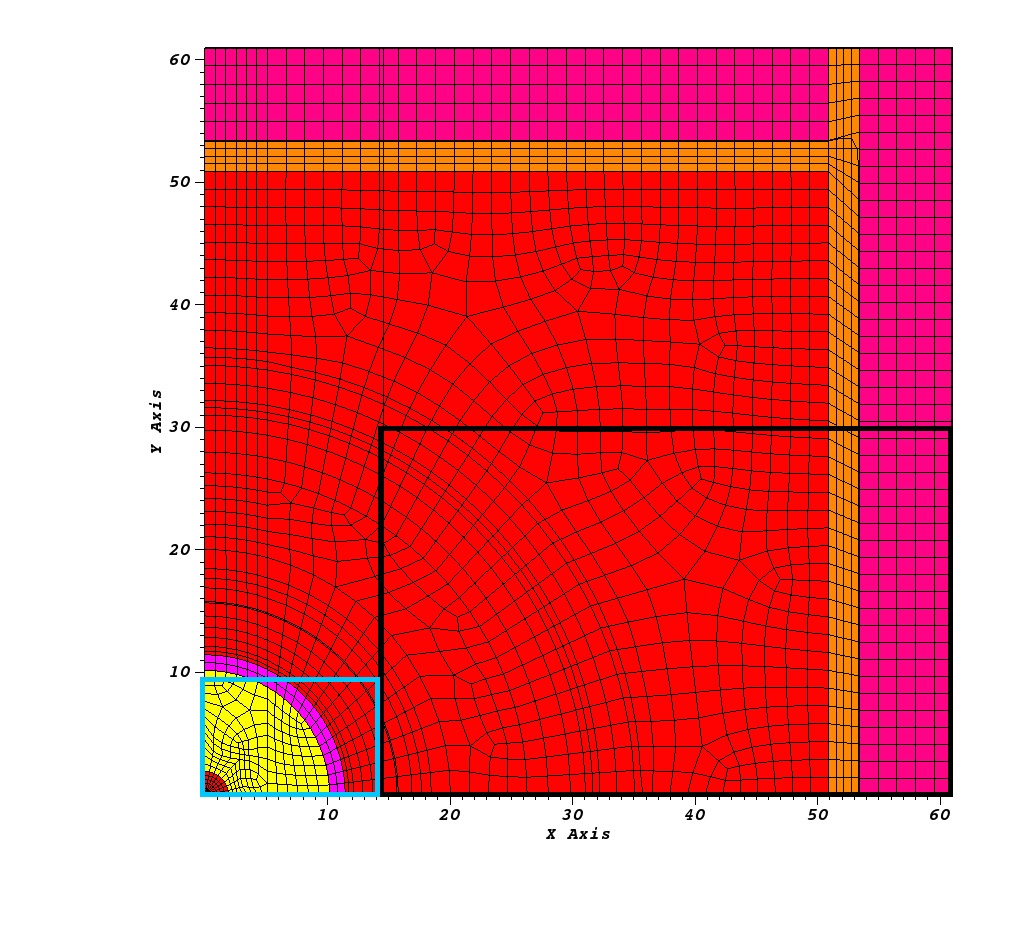
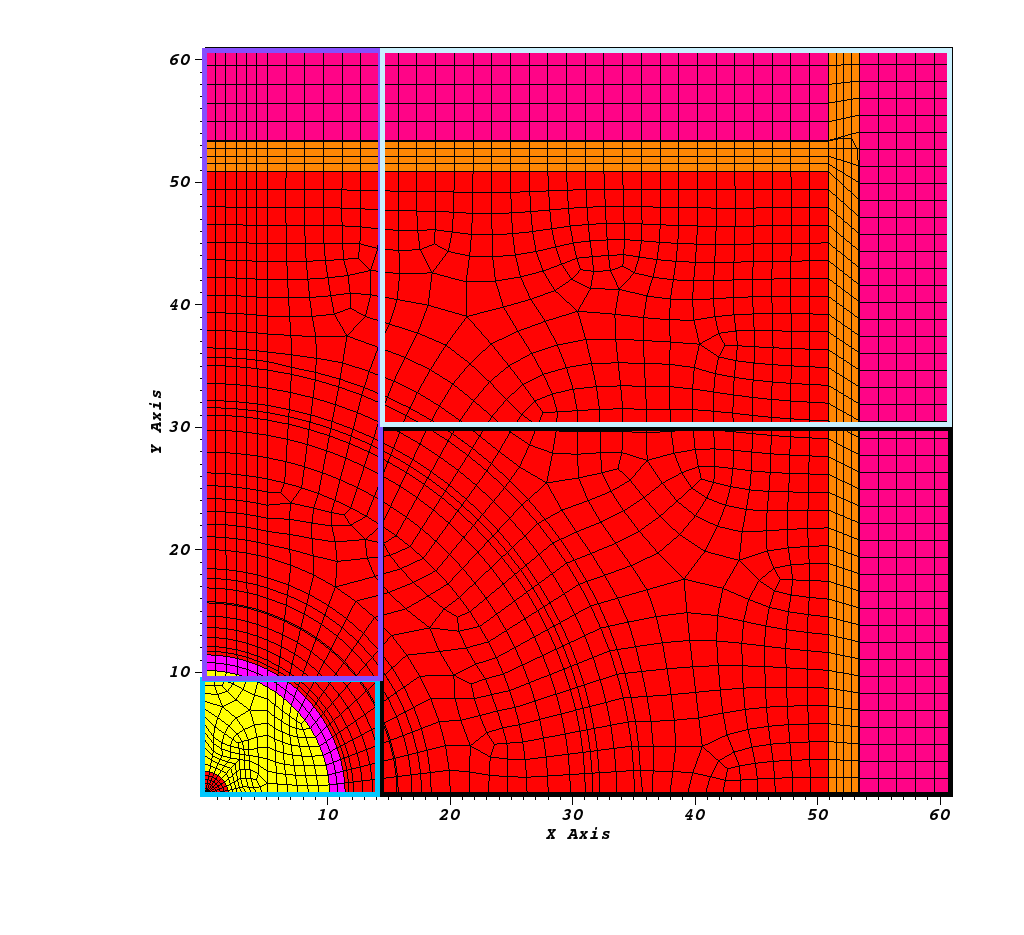
Comments addressed.

Changed region(s): [[0.1875, 0.031, 0.9375, 0.7444]]

diff --git a/MandC2019/ExtendedSummary/mandc2019_template.tex b/MandC2019/ExtendedSummary/mandc2019_template.tex
@@ -60,11 +60,11 @@ MASSIVELY PARALLEL TRANSPORT SWEEPS \\
 \author{%
   % FIRST AUTHORS 
   %
-  \textbf{Tarek Habib Ghaddar$^1$, Jean C. Ragusa$^1$}\\%\footnote{Footnote, if necessary, in Times New Roman font and font size 10} \\
+  \textbf{Tarek Habib Ghaddar$^1$, Jean C. Ragusa$^1$,Jan Vermaak$^1$, Marvin L. Adams$^1$}\\%\footnote{Footnote, if necessary, in Times New Roman font and font size 10} \\
   $^1$Dept. of Nuclear Engineering, Texas  A\&M University \\
   College Station, TX, 77843-3133 \\ 
 \\
-  \url{tghaddar@tamu.edu}, \url{jean.ragusa@tamu.edu}
+  \url{tghaddar@tamu.edu}, \url{jean.ragusa@tamu.edu}, \url{janv@tamu.edu}, \url{mladams@tamu.edu}
 }
 %
 % Insert authors' names and short version of title in lines below
@@ -82,7 +82,6 @@ MASSIVELY PARALLEL TRANSPORT SWEEPS \\
 \maketitle
 \justify 
 
-\jcr{list of authors seems incomplete}
 %%%%%%%%%%%%%%%%%%%%%%%%%%%%%%%%%%%%%%%%%%%%%%%%%%%%%%%%%%%%%%%%%%%%%
 \section{INTRODUCTION} 
 %%%%%%%%%%%%%%%%%%%%%%%%%%%%%%%%%%%%%%%%%%%%%%%%%%%%%%%%%%%%%%%%%%%%%
@@ -94,16 +93,15 @@ Optimal sweeps for $S_n$ radiation transport calculations on unstructured grids 
 %%%%%%%%%%%%%%%%%%%%%%%%%%%%%%%%%%%%%%%%%%%%%%%%%%%%%%%%%%%%%%%%%%%%%
 
 In order to understand how load balancing is handled in PDT, we first describe the partitioning scheme and how the mesh is distributed amongst processes.  In general:
-\vspace{-1cm}
+\vspace{-0.6cm}
 \begin{itemize}\itemsep 1pt \parskip 0pt \parsep 0pt
 \item ``Cut lines" in 2D (cut planes for 3D) are used to slice through the mesh in the $x$, $y$, and $z$ dimensions.
 \item The cut planes form brick partitions, called subsets, that have unstructured meshes inside of them. 
 \item The subsets are distributed amongst the processor domain.
 \end{itemize}
-\vspace{-1cm}
+\vspace{-0.6cm}
 
-Both approaches \jcr{unclear what these 2 approaches are. this needs to be explained} to load balancing discussed in this paper rely on the concept of a subset. Figure \ref{subset_example} illustrates a 2D example of a subset, where the lower left and lower right subsets are highlighted in blue and black boxes, respectively. \jcr{why not highlight the 4 subsets on that figure?} \jcr{furthermore, point out the arbitrary polygons (2D) polyhedral cells (3D) generated in such a manner and add 2-3 PWLD references to briefly explain how we get away with such arbitrary polyhedra}
-
+Both approaches to load balancing move these cut lines in order to redistribute cells more evenly throughout subsets, and therefore processors. The first approach places cut lines in all dimensions all the way through the mesh, and the second approach involves balancing the cut lines in one dimension, then balancing the secondary dimension's cut lines within that dimension. Figure \ref{subset_example} illustrates a 2D example of a subset, with all 4 subsets highlighted in different colors for emphasis. With this partitioning approach, we obtain arbitrary polygons (polyhedra in 3D) along subset boundaries. Because PDT's spatial discretization employs Piece-Wise Linear Discontinuous (PWLD)  finite element basis functions\cite{pwld_ragusa,pwld_teresa}, there is no problem solving on degenerate polygons. 
 \begin{figure}[H]
 \centering
 \includegraphics[scale=0.5,trim={3cm 2cm 1cm 1cm},clip]{figures/subset_example.png}
@@ -115,36 +113,36 @@ Both approaches \jcr{unclear what these 2 approaches are. this needs to be expla
 \section{LOAD BALANCING IN PDT}
 %%%%%%%%%%%%%%%%%%%%%%%%%%%%%%%%%%%%%%%%%%%%%%%%%%%%%%%%%%%%%%%%%%%%%
 
-All approaches to load balancing in PDT rely on the movement of cut lines (or planes) to redistribute cells more evenly across all subsets. In general, this means moving cut lines into more mesh dense regions in order to better focus processing power. We first define a metric describing how imbalanced our problem is:
-\begin{equation}
-f =\frac{\underset{ijk}{\text{max}}(N_{ijk})}{\frac{N_{tot}}{I\cdot J\cdot K}},
-\label{metric_def}
-\end{equation}
-where $f$ is the load balance metric, $N_{ijk}$ is the number of cells in subset $(i,j,k)$, $N_{tot}$ is the global number of cells in the problem, and $I$, $J$, and $K$ are the total number of subsets in the $x$, $y$, and $z$ direction, respectively. The metric is a measure of the maximum number of cells per subset divided by the average number of cells per subset.
+All approaches to load balancing in PDT rely on the movement of cut lines (or planes) to redistribute cells more evenly across all subsets. In general, this means moving cut lines into more mesh dense regions in order to better focus processing power. Our approaches to load balancing follow this simple algorithm:
 
-The load balancing algorithm moves cut planes based on dimensional sub-metrics, $f_d$ . Equation ~\eqref{submetric} defines these two parameters:
-\jcr{$f_d$ or $f_D$. which is it? More importantly, this paragraph is describing the weeds. What's the bigger idea. The reader will definitely be lost. You need to have a funnel vision, from big to details and at the summary level, details can be swept under the rug using 1-2 sentences rather than lengthy explanations but the big picture concept needs to to be clearly laid out}
-\begin{equation}
-f_{D} = \underset{d}{\text{max}}[\sum_{d2,d3} N_{ijk}]/\frac{N_{tot}}{D}
-\label{submetric}
-\end{equation}
-$f_{d}$ is calculated by taking the maximum number of cells per row, column, or plane and dividing it by the average number of cells per the corresponding dimension. If this number is greater than predefined tolerances, the cut lines in the respective dimension is redistributed. Once redistribution occurs, a new metric is calculated. This iterative process occurs until a maximum number of iterations is reached, or until $f$ converges within the user defined tolerance. In general, our approaches to load balancing follow this simple algorithm:
-
-\begin{algorithm}
+\begin{algorithm}[H]
 \begin{algorithmic}
-
 \WHILE {$f > \text{tol}_{\text{subset}}$}
-\FOR{d in $x,y,z$}
-	\IF {$f_D> \text{tolerance}_{d}$}
-		\STATE Redistribute cut lines corresponding to dimension d.
+\FOR{D in $x,y,z$}
+	\IF {$f_D> \text{tol}_{d}$}
+		\STATE Redistribute cut lines corresponding to dimension D.
 	\ENDIF	
 \ENDFOR
 \ENDWHILE
 \end{algorithmic}
 \end{algorithm}
 
-\jcr{now you describe the big picture at bit. I am afraid this is too late. I prefer foreshadowing. You may have lost the reader by now.}
-Our initial approach to load balancing involved placing cut lines in all dimensions all the way through the mesh. This created an orthogonal partitioning where each subset had an equivalent number of neighbors. This was done to preserve the optimal sweep partitioning described by Adams et. al \cite{mpadams2015}. \jcr{now the issues with LB without dong it by dimension could stay here. This is a detail but putting up front the general idea about the 2 approaches is required} However, there are theoretical limits to load balancing in this fashion. Figure \ref{2dgeneral} shows a simple 2D subset layout with $M$ unaligned patches of high mesh density.
+We first define a metric describing how imbalanced our problem is:
+\begin{equation}
+f =\frac{\underset{ijk}{\text{max}}(N_{ijk})}{\frac{N_{tot}}{I\cdot J\cdot K}},
+\label{metric_def}
+\end{equation}
+where $f$ is the load balance metric, $N_{ijk}$ is the number of cells in subset $(i,j,k)$, $N_{tot}$ is the global number of cells in the problem, and $I$, $J$, and $K$ are the total number of subsets in the $x$, $y$, and $z$ direction, respectively. The metric is a measure of the maximum number of cells per subset divided by the average number of cells per subset. For a perfectly balanced problem, $f = 1$.
+
+The load balancing algorithms moves cut planes based on dimensional sub-metrics, $f_D$ . Equation ~\eqref{submetric} defines these two parameters:
+\begin{equation}
+f_{D} = \underset{d}{\text{max}}[\sum_{d2,d3} N_{ijk}]/\frac{N_{tot}}{D}
+\label{submetric}
+\end{equation}
+$f_{D}$ is calculated by taking the maximum number of cells per row, column, or plane and dividing it by the average number of cells per the corresponding dimension. If this number is greater than predefined tolerances, the cut lines in the respective dimension is redistributed. Once redistribution occurs, a new metric is calculated. This iterative process occurs until a maximum number of iterations is reached, or until $f$ converges within the user defined tolerance.
+
+\subsection{Initial Approach to Load Balancing}
+Our initial approach to load balancing involved placing cut lines in all dimensions all the way through the mesh. This created an orthogonal partitioning where each subset had an equivalent number of neighbors. This was done to preserve the optimal sweep partitioning described by Adams et. al \cite{mpadams2015}. However, there are theoretical limits to load balancing in this fashion. Figure \ref{2dgeneral} shows a simple 2D subset layout with $M$ unaligned patches of high mesh density.
 
 \begin{figure}[H]
 \centering
@@ -158,8 +156,8 @@ The subset layout is $[M(N+1)+1] \times [M(N+1)+1]$, but only $MN^2$ subset have
 f= \frac{\left( M(N+1)+1 \right)^2}{MN^2} \xrightarrow{N\to \infty} \frac{M^2N^2}{MN^2} = M.
 \end{equation}
 
-\jcr{you also definitely need sub headers to sort and organize this}
-An improved load balancing algorithm was implemented that significantly improved our metric. Rather than load balancing both dimensions within an iteration, one dimension is balanced first for all iterations, and then the cut lines that yielded the best metric for that dimension are chosen. Then the next dimension is balanced within the first dimension. For example, if the $x$ cut lines are balanced first, the $y$ cut lines would be balanced \textit{within} each column. When full 3D load balancing by dimension, shown in Fig. \ref{lbd}, excellent metrics within 5\% of unity are consistently obtained.
+\subsection{Load Balancing By Dimension}
+An improved load balancing algorithm was implemented that significantly improved our metric. Rather than load balancing both dimensions within an iteration, one dimension is balanced first for all iterations, and then the cut lines that yielded the best metric for that dimension are chosen. Then the next dimension is balanced within the first dimension. For example, if the $x$ cut lines are balanced first, the $y$ cut lines would be balanced \textit{within} each column. When full 3D load balancing by dimension, shown in Fig. \ref{lbd}, excellent metrics within 6\% of unity are consistently obtained. Table \ref{lbd_f} shows the results of the load balancing algorithm by dimension algorithm run on the IM1C experiment partially shown in Fig. \ref{lbd}. 
 
 \begin{figure}[H]
 \centering
@@ -168,13 +166,31 @@ An improved load balancing algorithm was implemented that significantly improved
 \label{lbd}
 \end{figure}
 
+\begin{table}[H]
+\centering
+\begin{tabular}{c c}
+
+   \textbf{Subsets} & \textbf{$f$} \\
+   \hline
+   8 & 1.008 \\
+  27 & 1.017 \\
+  64 & 1.028 \\
+ 125 & 1.022 \\
+ 216 & 1.057 \\
+\hline
+\end{tabular}
+\caption{The imbalance factor $f$ for a different number of subsets after load balancing by dimension.}
+\label{lbd_f}
+\end{table}
+\vspace{-3cm}
+
 The full paper will be showing scaling results obtained using load balanced meshes.
 
 %%%%%%%%%%%%%%%%%%%%%%%%%%%%%%%%%%%%%%%%%%%%%%%%%%%%%%%%%%%%%%%%%%%%%
 \section{CONCLUSIONS AND FUTURE WORK}
 %%%%%%%%%%%%%%%%%%%%%%%%%%%%%%%%%%%%%%%%%%%%%%%%%%%%%%%%%%%%%%%%%%%%%
 
-While we obtain excellent imbalance factors utilizing the load balance by dimension algorithm (particularly for 3D cases) \jcr{where's the data?????}, further study shows the possibility that the most efficient partitioning scheme is not being used. 
+While we obtain excellent imbalance factors utilizing the load balance by dimension algorithm (particularly for 3D cases), further study shows the possibility that the most efficient partitioning scheme is not being used. 
 While perfect load balance was the initial goal, we need to know how this affects the efficiency of our parallel transport sweep. Figures~\ref{regular_partition}-\ref{worst_partition} showcase the theoretical effect of perfect load balance on the transport sweep.
 
 Figure~\ref{regular_partition} shows a sweep domain with a regular partition with perfect balance (equivalent number of cells per processor). The sweep maintains a mostly regular wavelike structure as each angle sweeps through the domain, and this sweep completes in 40 stages. This is the ideal partitioning for the transport sweep, but often hard to achieve with unstructured meshes \textbf{and} perfect balance.
